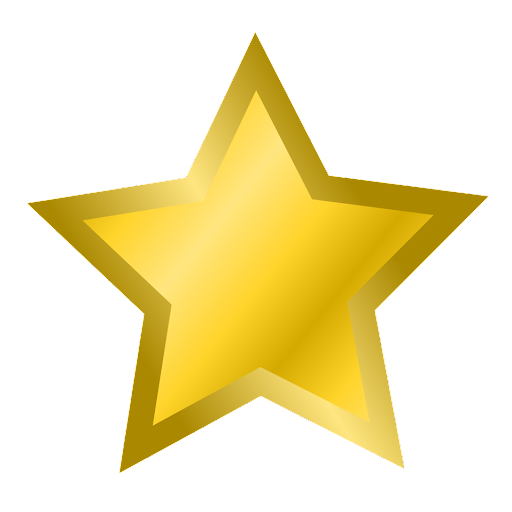
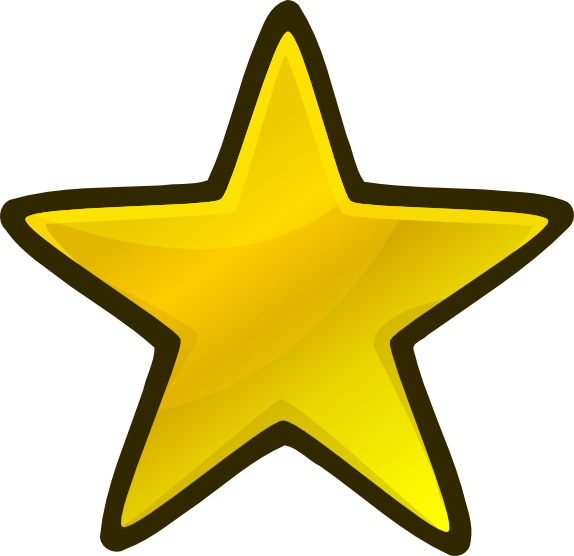
Update star image to a better looking golden star

diff --git a/src/javascript/gamePlay.js b/src/javascript/gamePlay.js
@@ -61,7 +61,7 @@ class GamePlay extends Phaser.Scene {
     const randomNumber = (min, max) => Math.floor(Math.random() * (max - min + 1) + min);
 
     star = this.physics.add.image(randomNumber(50, 410), randomNumber(710, 2500), 'star').setScale(0.075);
-    star.body.setSize(star.width - 145, star.height - 145, true).setOffset(75, 75);
+    star.body.setSize(star.width - 125, star.height - 125, true);
     star.setVelocityY(randomNumber(-200, -700));
 
     const resetBlock = this.add.rectangle(0, -50, 460, 18, 0x6666ff).setOrigin(0);
